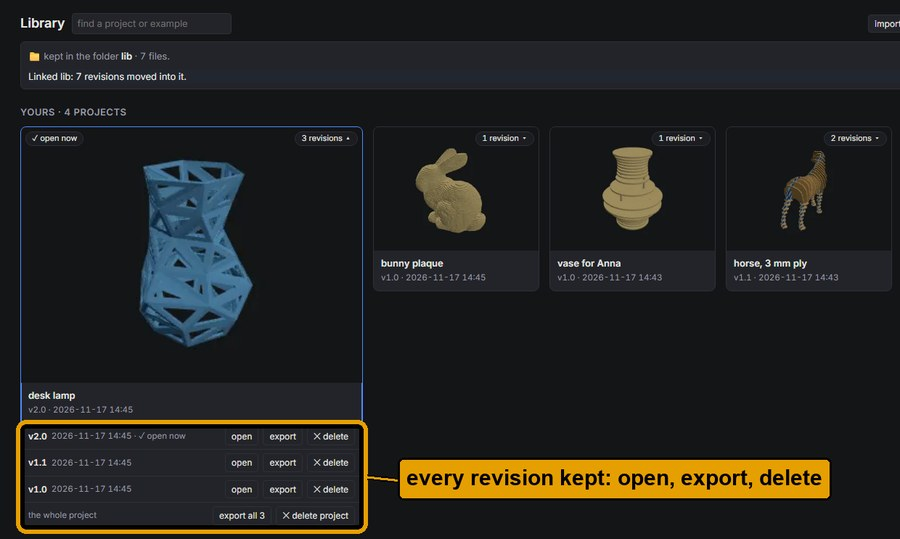
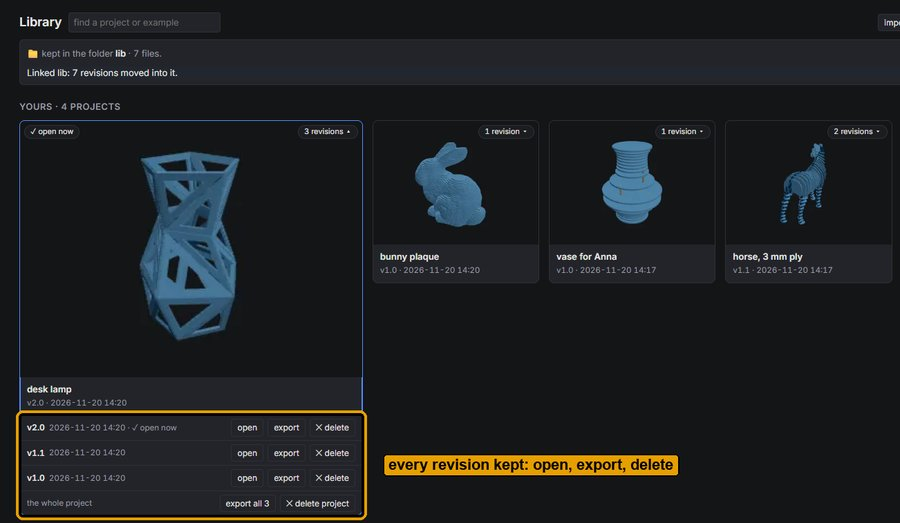
Release notes after the library: pictures open examples its way, the library picture, 13 pictures retaken
The library removed the example dropdown, so every picture of scripts/media/news.py failed at its first step.
App.example() now opens an example with window.__t.openExample(), which the library's example cards call too.
It also sets the look to "by family" first: a picture that picks a material (the lamp's PETG, the material
picture's acrylic) left that look for every picture after it, so mask, rings and tools were in plastic or plywood.

- n040_library: four saved projects, the folder linked, the lamp's three revisions ringed, the label beside the
  ring so the card's name shows. Last in the file, as it leaves the projects in the page's library.
- n040_spacing: the Spacing section moved below the fold, so the graph was outside the crop since the vase
  opens with count (bug 046). It is scrolled to the middle and cropped to the section.
- n040_first: the cow is a low-poly cow for folding now; one rail missed its lowered head (5 ribs touching
  nothing). Two rails (ny 2) run through the head; only the last rib, at the tail, has an error.
- Retaken because the app changed or the picture was wrong: bands, cards, fingers, first, library, mask,
  material, max-length, rings, seams, settings, spacing, tools. The 0.3.3 pictures and horse-head stay as
  they were (they show 0.3.3).
- CHANGELOG: the intro names the library; two alt texts said what the pictures no longer show.

notes_check 0.4.0 and 0.3.3 OK; ruff clean; test_announce 2 passed; the three What is new page tests passed.

diff --git a/scripts/media/news.py b/scripts/media/news.py
@@ -35,8 +35,8 @@ class App:
 
     def example(self, name, mode=None):     # every picture starts here: the normal view, then the example
         self.p.select_option("#viewmode", "both")
-        self.p.evaluate("e => {const s = document.querySelector('#example'); s.value = e;"
-                        " s.dispatchEvent(new Event('change'))}", name)
+        self.p.select_option("#look", "group")             # by family: picking a material sets its look, and keeps it
+        self.p.evaluate("n => window.__t.openExample(n)", name)   # what the library's example cards call
         self.idle()
         if mode:
             self.mode(mode)
@@ -299,8 +299,10 @@ def n040_basic(app):
 def n040_spacing(app):
     app.example("vase", "stacked")          # the vase opens with vary the spacing on
     app.level("basic")
-    app.shot("0.4.0-spacing", (0, 40, 470, 880),
-             [("section[data-tab=technique] .f[data-p=spacing_vary]", "vary the spacing")])
+    row, graph = (f"section[data-tab=technique] .f[data-p={p}]" for p in ("spacing_vary", "spacing_curve"))
+    app.p.locator(graph).evaluate("e => e.scrollIntoView({block: 'center'})")   # the section is below the fold
+    app.p.wait_for_timeout(300)
+    app.shot("0.4.0-spacing", (0, app.box(row)[1] - 60, 470, app.box(graph)[3]), [(row, "vary the spacing")])
 
 
 def n040_tools(app):
@@ -361,9 +363,11 @@ def plaque_back(app):                         # the plaque settings as the examp
 
 
 def n040_first(app):
-    crossed_side(app, "cow", 50, (("nx", 20), ("first_height", 35)))   # the rail at 35 %: it keeps the cow's outline
+    # the low-poly cow: at ny 1 its rail misses the lowered head (5 ribs touch nothing); at ny 2 it runs through the
+    # head, and only the last rib, at the tail, has an error
+    crossed_side(app, "cow", 50, (("nx", 20), ("first_height", 35), ("ny", 2)))
     app.view(65, 30, 0.75)
-    app.p.evaluate("() => {const s = document.querySelector('#steps'); s.value = 8;"   # the plate, the rail, 6 ribs
+    app.p.evaluate("() => {const s = document.querySelector('#steps'); s.value = 9;"   # the plate, the rail, 7 ribs
                    " s.dispatchEvent(new Event('input'))}")
     app.p.wait_for_timeout(1200)
     app.shot("0.4.0-first", VIEW, [("label:has(#steps)", "the rail goes in first")])
@@ -475,6 +479,45 @@ def n033_step(app):
     app.tab("export")
     app.p.locator("#dl").scroll_into_view_if_needed()
     app.shot("0.3.3-step", "#dl", [("#dl >> text=STEP", "assembled STEP")])
+
+
+# ---- 0.4.0, last: it leaves four saved projects in the page's library ----------------------------------------------
+
+
+def n040_library(app):
+    save_it = "window.__t.lib.saveCurrent(() => Promise.resolve('keep'))"
+    for ex, name, bumps in (("horse", "horse, 3 mm ply", ["#pminor"]), ("vase", "vase for Anna", []),
+                            ("bunny", "bunny plaque", []), ("fold_lamp", "desk lamp", ["#pminor", "#pmajor"])):
+        app.example(ex)
+        app.p.fill("#pname", name)
+        app.idle()
+        app.p.evaluate(save_it)
+        for b in bumps:                     # a new revision from the version menu: v1.1, then v2.0
+            app.p.click(f"details.menu:has({b}) > summary")
+            app.p.click(b)
+            app.idle()
+            app.p.evaluate(save_it)
+    app.p.click("#popen")
+    app.p.wait_for_function("() => document.querySelector('#libyours').dataset.listed")
+    app.p.evaluate("""async () => {const d = await (await navigator.storage.getDirectory())
+                          .getDirectoryHandle('lib', {create: true}); window.showDirectoryPicker = async () => d}""")
+    app.p.click("#liblink")                 # the page's own folder stands in for the one a person picks
+    app.p.wait_for_function("() => /kept in the folder/.test(document.querySelector('#libwhere').innerText)")
+    app.p.evaluate("document.querySelector('#libwhere .note')?.remove()")   # the link's result, shown once
+    lamp = '#libyours .card[data-name="desk lamp"]'
+    app.p.click(f"{lamp} .more")
+    app.p.wait_for_function("() => [...document.querySelectorAll('#library img')].every(i => i.complete)")
+    app.p.evaluate("document.querySelector('#library').scrollTop = 0")
+    app.p.wait_for_timeout(300)
+    x0, y0, _, _ = app.box("#library")
+    x1 = app.box("#libyours .card >> nth=3")[2]
+    revs = f"{lamp} .revs"
+    _, ry0, rx1, ry1 = app.box(revs)
+    img = app.grab((x0, y0, x1, ry1), [(revs, "")])
+    ox, oy = max(0, x0 - 12), max(0, y0 - 12)                # grab's crop starts 12 px out
+    tag(ImageDraw.Draw(img), rx1 - ox + 30, (ry0 + ry1) / 2 - oy - 16, "every revision kept: open, export, delete")
+    save("0.4.0-library", img)                # the label beside the ring: above it, it would hide the card's name
+    app.p.click("#libclose")
 
 
 def picture_name(f):                        # n040_lamp_example -> 0.4.0-lamp-example

diff --git a/CHANGELOG.md b/CHANGELOG.md
@@ -5,7 +5,8 @@ What changed in each release. The GitHub release for a version is this section, 
 ## 0.4.0
 
 A new way to build, the band lattice, and a new look: settings with full names in short sections, and tool buttons
-in the 3D view. Make a mask from any model, and light it from inside to see it as a lamp.
+in the 3D view. Keep your projects and every revision in a library, make a mask from any model, and light it from
+inside to see it as a lamp.
 
 ### Added
 
@@ -17,7 +18,7 @@ in the 3D view. Make a mask from any model, and light it from inside to see it a
 - **Band lattice.** A new technique: rings across x, y and z that slot together, best on round or boxy shapes.
   Lamina names any piece that cannot slide in. Thanks to @DaveLauber: adapted from his fork.
 
-  [![The sphere's lattice built piece by piece, step 35 of 44 ▶](web/static/news/0.4.0-bands.jpg)](https://marcelfarres.github.io/lamina/media/bands_build.mp4)
+  [![The band sphere: three families of rings, each with its own colour and pattern; the clip builds it ▶](web/static/news/0.4.0-bands.jpg)](https://marcelfarres.github.io/lamina/media/bands_build.mp4)
 
 - **Ring slices.** Tick *ring slices* on Stacked: each slice keeps only a wall, so the stack uses about a quarter
   of the material. Each dowel sits in a collar. Thanks to @DaveLauber: adapted from his fork.
@@ -55,7 +56,7 @@ in the 3D view. Make a mask from any model, and light it from inside to see it a
 - **Choose which slices go in first.** *Into the plate first* picks the X or Y slices of a crossed plaque. The
   others slide onto them one by one. *First family height* makes them a low rail. Their teeth are full width.
 
-  ![The cow as a plaque: the low rail goes in first, then the ribs slide onto it](web/static/news/0.4.0-first.jpg)
+  ![The cow as a plaque: the rail goes in first, then the ribs slide onto it](web/static/news/0.4.0-first.jpg)
 
 - **A warning for weak fingers.** Many crossing slices close together turn a slice into a comb. A finger between two
   slots that is thinner than your material can take now gets a warning with its width.
